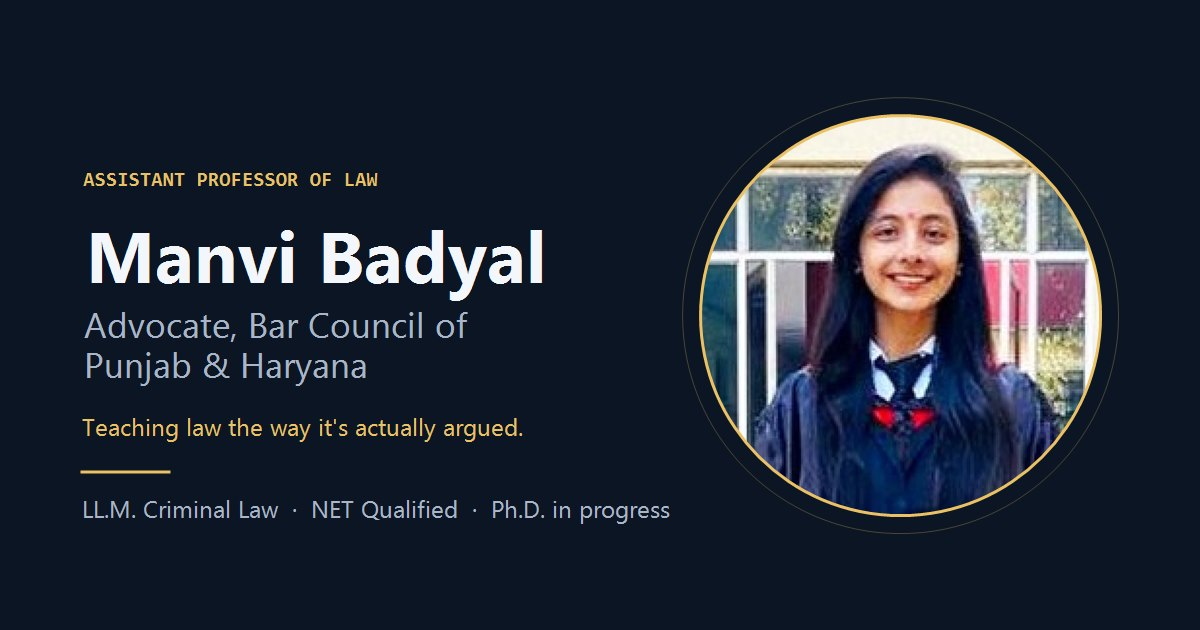
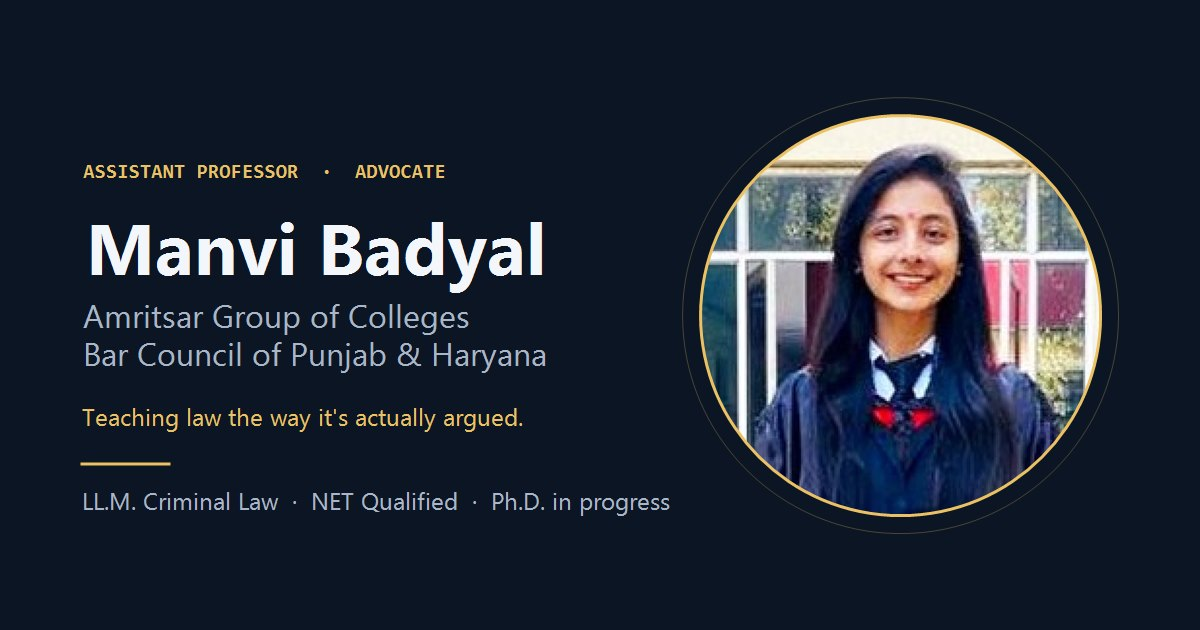
Use real designation and institution
Assistant Professor at Amritsar Group of Colleges (AGC), Amritsar. Surfaced in
the hero, teaching card, journey timeline, footer, page metadata, JSON-LD and
the social card. Repo URLs updated to ManviBadyal.

diff --git a/src/index.html b/src/index.html
@@ -2,34 +2,34 @@
 <html lang="en">
 <head>
   <meta charset="utf-8">
-  <title>Manvi Badyal — Assistant Professor of Law &amp; Advocate</title>
+  <title>Manvi Badyal — Assistant Professor &amp; Advocate</title>
   <base href="/">
   <meta name="viewport" content="width=device-width, initial-scale=1">
 
   <!-- SITE_URL: update this one value after deploying, then re-run the build. -->
-  <link rel="canonical" href="https://abhiknav.github.io/manvi-portfolio/">
+  <link rel="canonical" href="https://abhiknav.github.io/ManviBadyal/">
 
-  <meta name="description" content="Manvi Badyal — Assistant Professor of Law and enrolled advocate of the Bar Council of Punjab &amp; Haryana. Criminal law teaching, legal research, drafting and opinions.">
+  <meta name="description" content="Manvi Badyal — Assistant Professor at Amritsar Group of Colleges (AGC), Amritsar, and enrolled advocate of the Bar Council of Punjab &amp; Haryana. Criminal law teaching, legal research, drafting and opinions.">
   <meta name="author" content="Manvi Badyal">
-  <meta name="keywords" content="Manvi Badyal, Assistant Professor of Law, Advocate, Punjab, criminal law, legal research, legal drafting, freelance lawyer, LLM, NET qualified">
+  <meta name="keywords" content="Manvi Badyal, Assistant Professor, AGC Amritsar, Amritsar Group of Colleges, Advocate, Punjab, criminal law, legal research, legal drafting, freelance lawyer, LLM, NET qualified">
   <meta name="robots" content="index, follow">
   <meta name="theme-color" content="#0B1524">
 
   <meta property="og:type" content="profile">
   <meta property="og:site_name" content="Manvi Badyal">
-  <meta property="og:title" content="Manvi Badyal — Assistant Professor of Law &amp; Advocate">
+  <meta property="og:title" content="Manvi Badyal — Assistant Professor &amp; Advocate">
   <meta property="og:description" content="Teaching law the way it's actually argued. Criminal law teaching, plus legal research and drafting briefs.">
-  <meta property="og:url" content="https://abhiknav.github.io/manvi-portfolio/">
-  <meta property="og:image" content="https://abhiknav.github.io/manvi-portfolio/assets/img/og.jpg">
+  <meta property="og:url" content="https://abhiknav.github.io/ManviBadyal/">
+  <meta property="og:image" content="https://abhiknav.github.io/ManviBadyal/assets/img/og.jpg">
   <meta property="og:image:width" content="1200">
   <meta property="og:image:height" content="630">
   <meta property="profile:first_name" content="Manvi">
   <meta property="profile:last_name" content="Badyal">
 
   <meta name="twitter:card" content="summary_large_image">
-  <meta name="twitter:title" content="Manvi Badyal — Assistant Professor of Law &amp; Advocate">
+  <meta name="twitter:title" content="Manvi Badyal — Assistant Professor &amp; Advocate">
   <meta name="twitter:description" content="Teaching law the way it's actually argued. Criminal law teaching, plus legal research and drafting briefs.">
-  <meta name="twitter:image" content="https://abhiknav.github.io/manvi-portfolio/assets/img/og.jpg">
+  <meta name="twitter:image" content="https://abhiknav.github.io/ManviBadyal/assets/img/og.jpg">
 
   <link rel="icon" type="image/x-icon" href="favicon.ico">
   <link rel="apple-touch-icon" href="assets/img/manvi.jpg">
@@ -43,8 +43,9 @@
     "@context": "https://schema.org",
     "@type": "Person",
     "name": "Manvi Badyal",
-    "jobTitle": "Assistant Professor of Law",
-    "description": "Assistant Professor of Law and enrolled advocate. Criminal law teaching, legal research and drafting.",
+    "jobTitle": "Assistant Professor",
+    "worksFor": { "@type": "CollegeOrUniversity", "name": "Amritsar Group of Colleges (AGC), Amritsar" },
+    "description": "Assistant Professor at Amritsar Group of Colleges and enrolled advocate. Criminal law teaching, legal research and drafting.",
     "email": "mailto:manvibadyal07@gmail.com",
     "telephone": "+91-82647-83139",
     "address": { "@type": "PostalAddress", "addressRegion": "Punjab", "addressCountry": "IN" },

diff --git a/src/app/core/site-content.ts b/src/app/core/site-content.ts
@@ -5,8 +5,6 @@
  * work, not the person. Keep new copy in the same register.
  *
  * NOTE FOR MANVI / EDITOR:
- *  - `profile.title` and `profile.institution` are best guesses. Replace with
- *    the exact designation and college name.
  *  - `testimonials` are PLACEHOLDER text. Replace with real student feedback.
  *  - `publications` are PLACEHOLDER entries. Replace with real papers.
  *  - The VPN Lawyers association is PAST. End date is a guess — correct it.
@@ -14,10 +12,11 @@
 
 export const PROFILE = {
   name: 'Manvi Badyal',
-  title: 'Assistant Professor of Law',
+  title: 'Assistant Professor',
   secondTitle: 'Advocate, Bar Council of Punjab & Haryana',
   formerRole: 'Formerly Legal Associate, VPN Lawyers (Australia), Chandigarh',
-  institution: 'Faculty of Law',           // ← replace with real institution
+  institution: 'Amritsar Group of Colleges',
+  institutionShort: 'AGC, Amritsar',
   enrolment: 'PH/8438/2022',
   email: 'manvibadyal07@gmail.com',
   phone: '+91 82647 83139',
@@ -32,8 +31,9 @@ export const HERO = {
   headlineA: 'Teaching law the way',
   headlineAccent: "it's actually argued.",
   sub:
-    'Assistant Professor of Law and enrolled advocate. Three years of independent practice before ' +
-    'the move into full-time teaching — and that difference shows up in every class on procedure.',
+    'Assistant Professor at Amritsar Group of Colleges, and an enrolled advocate. Three years of ' +
+    'independent practice before the move into full-time teaching — and that difference shows up in ' +
+    'every class on procedure.',
   chips: [
     { v: '3', suffix: '+', k: 'Years in practice' },
     { v: 'NET', k: 'Qualified' },
@@ -65,7 +65,8 @@ export const ABOUT = {
 export const TEACHING = {
   heading: 'In the lecture hall.',
   sub: 'Criminal law and procedure, taught from files that were actually carried.',
-  nowTitle: 'Assistant Professor of Law',
+  nowTitle: 'Assistant Professor',
+  nowOrg: 'Amritsar Group of Colleges (AGC), Amritsar',
   nowMeta: 'LL.B. & LL.M. · Criminal Law & Procedure',
   /** Rendered word-by-word with the split-text animation. */
   nowBody:
@@ -176,7 +177,7 @@ export const JOURNEY = {
     { when: '2024', tag: 'academe', t: 'LL.M. Criminal Law — 8.27 CGPA', org: 'Guru Nanak Dev University, Amritsar', nt: 'NET qualified' },
     { when: 'Jun 2024 — 2025', tag: 'practice', t: 'Legal Associate, Chandigarh', org: 'VPN Lawyers — Australian practice', nt: 'Drafting to Australian standards · three increments in seven months' },
     { when: 'Feb 2025 — Present', tag: 'academe', t: 'Ph.D. (Law), Criminal Law', org: 'Guru Nanak Dev University', nt: 'Pursued alongside teaching' },
-    { when: 'Present', tag: 'academe', t: 'Assistant Professor of Law', org: 'Full-time faculty', nt: 'Criminal law and procedure, LL.B. & LL.M.' },
+    { when: 'Present', tag: 'academe', t: 'Assistant Professor', org: 'Amritsar Group of Colleges (AGC), Amritsar', nt: 'Criminal law and procedure, LL.B. & LL.M.' },
   ],
 };
 

diff --git a/src/app/components/teaching.component.ts b/src/app/components/teaching.component.ts
@@ -22,6 +22,7 @@ import { TEACHING } from '../core/site-content';
       <div class="now" [appReveal]="0" variant="corner-left">
         <span class="badge"><i></i>Currently teaching</span>
         <h3>{{ t.nowTitle }}</h3>
+        <div class="org">{{ t.nowOrg }}</div>
         <div class="meta">{{ t.nowMeta }}</div>
         <p class="body-copy" [appSplitText]="t.nowBody" [stagger]="22"></p>
         <div class="stats">
@@ -73,7 +74,8 @@ import { TEACHING } from '../core/site-content';
 @keyframes blip{ 0%,100%{ opacity:1 } 50%{ opacity:.25 } }
 
 .now h3{ font-size:1.5rem; margin-top:18px; letter-spacing:-.03em; }
-.now .meta{ font-family:"JetBrains Mono",monospace; font-size:.73rem; color:var(--gold); margin-top:8px; letter-spacing:.05em; }
+.now .org{ font-size:.98rem; color:var(--ink); font-weight:600; margin-top:6px; }
+.now .meta{ font-family:"JetBrains Mono",monospace; font-size:.73rem; color:var(--gold); margin-top:6px; letter-spacing:.05em; }
 .now .body-copy{ color:var(--ink-soft); font-size:.95rem; margin-top:16px; }
 
 .stats{ display:flex; gap:26px; margin-top:24px; padding-top:22px; border-top:1px solid var(--border); flex-wrap:wrap; }

diff --git a/package-single.js b/package-single.js
@@ -38,6 +38,8 @@ html = html.replace(/<link\b[^>]*>/gi, (tag) => {
   const rel = (attr(tag, 'rel') || '').toLowerCase();
   const href = attr(tag, 'href');
   if (rel === 'icon' || rel === 'shortcut icon') return '';
+  // The touch icon points at a local file; inline it rather than leave a 404.
+  if (rel === 'apple-touch-icon') return `<link rel="apple-touch-icon" href="${imgUri}">`;
   if (rel !== 'stylesheet' || !href) return tag;          // keep preconnect etc.
   const file = clean(href);
   if (!exists(file)) return tag;                          // remote font CSS

diff --git a/src/app/components/footer.component.ts b/src/app/components/footer.component.ts
@@ -10,7 +10,7 @@ import { PROFILE } from '../core/site-content';
     <div class="left">
       <span class="brand">{{ profile.name }}<span class="dot">.</span></span>
       <span class="roles">
-        <strong>{{ profile.title }}</strong>
+        <strong>{{ profile.title }}, {{ profile.institutionShort }}</strong>
         <em>·</em>
         <span>{{ profile.secondTitle }}</span>
         <em>·</em>

diff --git a/README.md b/README.md
@@ -73,12 +73,12 @@ on every push to `main`.
 
 ### One-time setup
 
-1. Create an empty **public** repo named `manvi-portfolio` at
+1. Create an empty **public** repo named `ManviBadyal` at
    <https://github.com/new> — no README, no .gitignore, no licence.
 2. Push:
 
    ```bash
-   git remote add origin git@github.com:Abhiknav/manvi-portfolio.git
+   git remote add origin git@github.com:Abhiknav/ManviBadyal.git
    git push -u origin main
    ```
 
@@ -86,7 +86,7 @@ on every push to `main`.
    "GitHub Actions"**.
 
 The workflow then builds with the correct `--base-href` and publishes to
-<https://abhiknav.github.io/manvi-portfolio/>.
+<https://abhiknav.github.io/ManviBadyal/>.
 
 ### Custom domain
 
